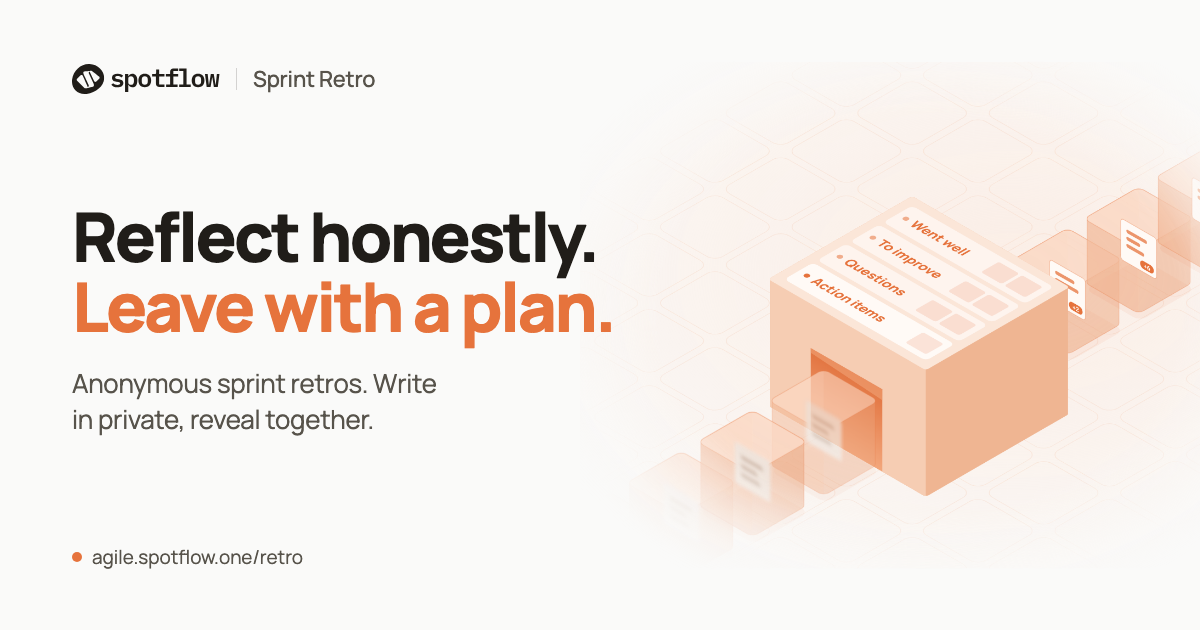
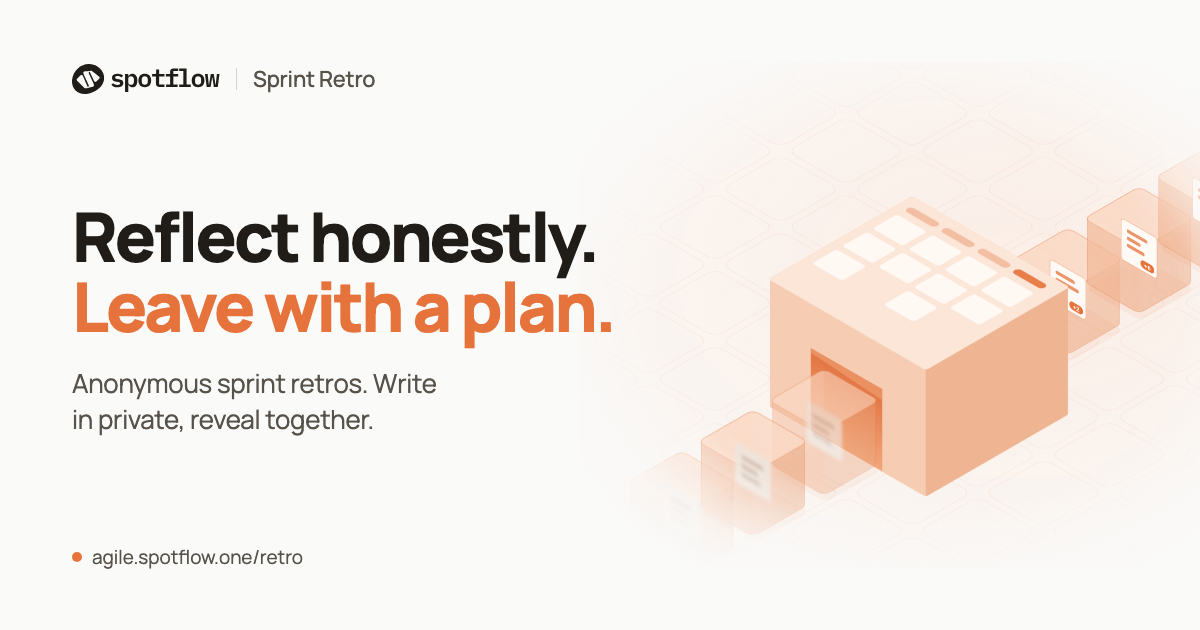
Restore the original retro hero board
Back to the four plain vertical columns without lane names; the retro
share image is re-rendered to match.

Changed region(s): [[0.6475, 0.3317, 0.8942, 0.573], [0.925, 0.3619, 0.9558, 0.4222]]

diff --git a/components/hero/RetroScene.tsx b/components/hero/RetroScene.tsx
@@ -3,7 +3,6 @@
 import { motion, useReducedMotion } from "motion/react";
 import { project } from "@/components/iso/geometry";
 import { IsoSlab, OnLeft, OnTop, type Shade } from "@/components/iso/primitives";
-import { LANES } from "@/lib/retro/types";
 
 /**
  * Retro hero: private notes ride a conveyor of glass cubes into the board,
@@ -150,49 +149,20 @@ function RevealedNote({ variant }: { variant: number }) {
   );
 }
 
-/**
- * The board printed on top of the block: the app's four lanes, each named.
- * Lanes run along the block's long edge so the names are large enough to read.
- */
+/** The four-column board printed on top of the block. */
 function BoardTop() {
-  const pad = 12;
-  const gap = 6;
-  const laneD = (BLOCK.d - pad * 2 - gap * (LANES.length - 1)) / LANES.length;
-  const laneW = BLOCK.w - pad * 2;
+  const cols = 4;
+  const colW = (BLOCK.w - 30) / cols;
   return (
     <g>
-      {LANES.map((lane, i) => {
-        const action = lane.key === "todo";
-        return (
-          <g key={lane.key} transform={`translate(${pad} ${pad + i * (laneD + gap)})`}>
-            <rect width={laneW} height={laneD} rx={6} fill="var(--r-note)" opacity={action ? 1 : 0.72} />
-            <circle cx={12} cy={laneD / 2} r={3.5} fill="var(--r-ink)" opacity={action ? 1 : 0.55} />
-            <text
-              x={22}
-              y={laneD / 2 + 6}
-              fontSize={17}
-              fontWeight={800}
-              letterSpacing={-0.3}
-              fill="var(--r-ink)"
-              style={{ fontFamily: "var(--font-manrope)" }}
-            >
-              {lane.label}
-            </text>
-            {[0, 1].slice(0, lane.label.length > 10 ? 1 : 2).map((n) => (
-              <rect
-                key={n}
-                x={laneW - 8 - (n + 1) * 30 - n * 4}
-                y={8}
-                width={30}
-                height={laneD - 16}
-                rx={3}
-                fill="var(--r-ink)"
-                opacity={0.16}
-              />
-            ))}
-          </g>
-        );
-      })}
+      {Array.from({ length: cols }, (_, c) => (
+        <g key={c} transform={`translate(${12 + c * (colW + 2)} 14)`}>
+          <rect width={colW - 6} height={10} rx={5} fill="var(--r-ink)" opacity={c === 3 ? 0.9 : 0.35} />
+          {[0, 1, 2].slice(0, 3 - (c % 2)).map((r) => (
+            <rect key={r} y={20 + r * 44} width={colW - 6} height={36} rx={4} fill="var(--r-note)" opacity={0.9} />
+          ))}
+        </g>
+      ))}
     </g>
   );
 }
